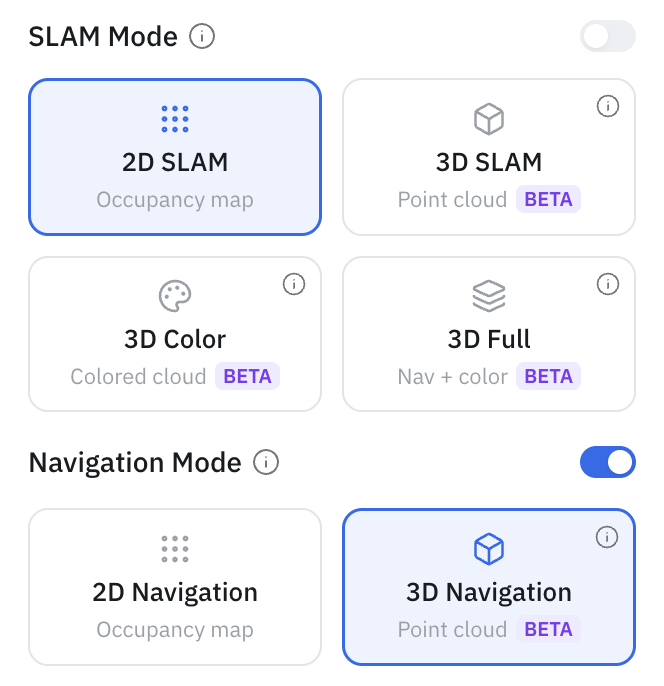
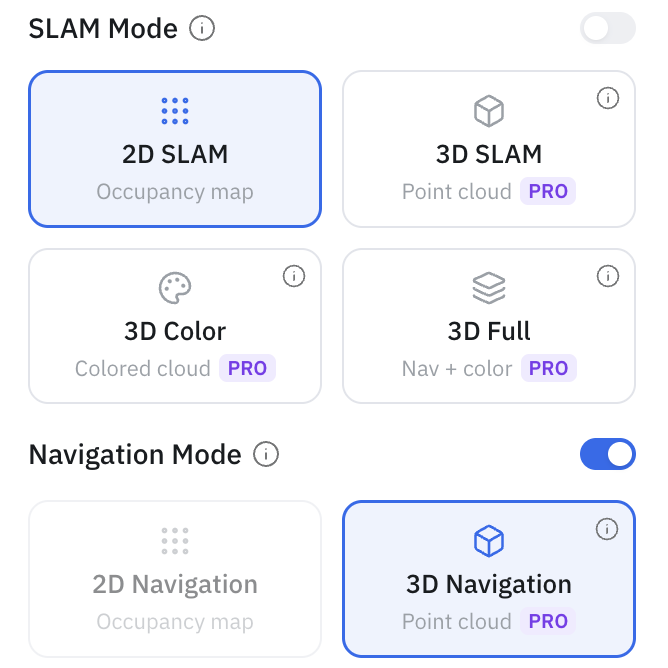
fix image ratios (#2693)
* fix image ratios

* fix image ratios

* Update README.md

* Update README.md

diff --git a/docs/full_autonomy_guidelines/features/machine-teleops.md b/docs/full_autonomy_guidelines/features/machine-teleops.md
@@ -12,7 +12,7 @@ Open the **Camera** tab for the robot's live feeds (Front, Top, Down) alongside 
 
 > On a physical robot, the game controller takes precedence over the AI — controller input overrides AI-generated motion. See [Unitree Go2 controls](../../robotics/unitree_go2_quadruped_configurations.md) for the button mapping.
 
-<img src="../../.gitbook/assets/full-autonomy-assets/machine_teleops.png" alt="Machine Teleops" width="320" height="420">
+<img src="../../.gitbook/assets/full-autonomy-assets/machine_teleops.png" alt="Machine Teleops" width="300" height="420">
 
 The **Robot Control** panel sets the robot's motion state — **Stand** (stand and walk) or **Sit** (lie down) — and, on supported robots, the **gait**: **Basic** (standard motion), **High Obstacles** (tall clearance), or **Stair** (stair climbing).
 

diff --git a/docs/full_autonomy_guidelines/mode_selection.md b/docs/full_autonomy_guidelines/mode_selection.md
@@ -97,7 +97,7 @@ Example config to setup time based transition type for transitioning into guard 
 
 2. Login to your OM1 portal and head over to **Machine Teleops** on the left navigation bar.
 
-   <img src="../.gitbook/assets/full-autonomy-assets/machine_teleops.png" alt=" " width="419" height="500">
+   <img src="../.gitbook/assets/full-autonomy-assets/machine_teleops.png" alt=" " width="300" height="420">
 
 3. Once connected, you'll see your machine listed as **Online** at the top of the screen.
 

diff --git a/README.md b/README.md
@@ -1,4 +1,4 @@
-![om1_banner_w](https://github.com/user-attachments/assets/cc23bdfe-c3da-47e0-8ec1-ab31723affb6)
+![om1_banner_w](https://github.com/user-attachments/assets/86590615-018d-4443-b345-8d224227e83f)
 
 <p align="center">
 <a href="https://arxiv.org/abs/2412.18588">Technical Paper</a> |
